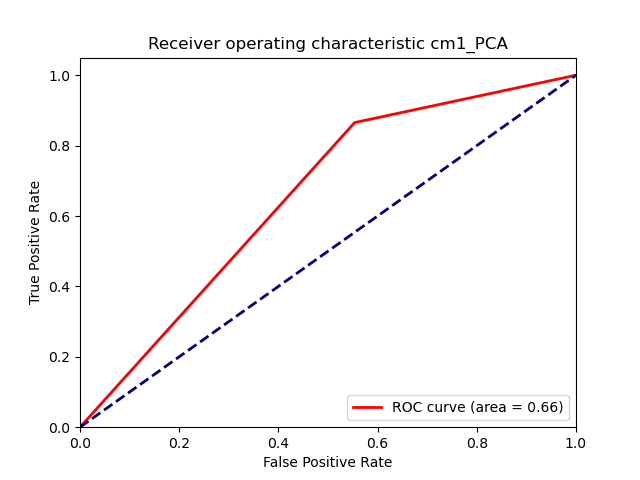
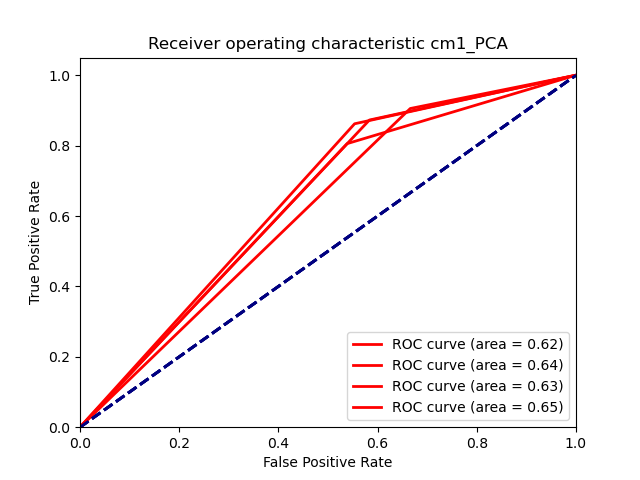
new

diff --git a/models.py b/models.py
@@ -50,9 +50,9 @@ def xgb(X_train,y_train,X_test):
         'max_depth': [3, 4, 5]
         }
     
-    classifier = findbestestimator(param_grid,xgb,X_train,y_train) 
-    #classifier = XGBClassifier(colsample_bytree=1,gamma=0.5, max_depth= 5, min_child_weight= 1, subsample=0.8)
-    #classifier.fit(X_train, y_train)
+    #classifier = findbestestimator(param_grid,xgb,X_train,y_train) 
+    classifier = XGBClassifier(colsample_bytree=0.8,gamma=5, max_depth= 4, min_child_weight= 1, subsample=0.6)
+    classifier.fit(X_train, y_train)
     # Predicting the Test set results
     y_pred = classifier.predict(X_test)
     return y_pred
@@ -69,9 +69,9 @@ def rf(X_train,y_train,X_test):
     'min_samples_split': [8, 10, 12],
     'n_estimators': [100, 200, 300, 400, 500, 800, 1000]
     }
-    classifier = findbestestimator(param_grid,rf,X_train,y_train)
-    #classifier = RandomForestClassifier(bootstrap=True, max_depth=80, max_features=3, min_samples_leaf=3, min_samples_split=8,n_estimators=100)
-    #classifier.fit(X_train, y_train)
+    #classifier = findbestestimator(param_grid,rf,X_train,y_train)
+    classifier = RandomForestClassifier(bootstrap=True, max_depth=80, max_features=3, min_samples_leaf=3, min_samples_split=8,n_estimators=100)
+    classifier.fit(X_train, y_train)
     #To quickly classify
     # Predicting the Test set results
     y_pred = classifier.predict(X_test)
@@ -89,10 +89,10 @@ def nn(X_train,y_train,X_test):
              ]
         }
        ]
-    n = MLPClassifier(random_state=0)
-    classifier = findbestestimator(param_grid,n,X_train,y_train)
-    #classifier = MLPClassifier(hidden_layer_sizes=(15,),activation='relu',solver='adam',random_state = 0)
-    #classifier.fit(X_train, y_train)
+    #n = MLPClassifier(random_state=0)
+    #classifier = findbestestimator(param_grid,n,X_train,y_train)
+    classifier = MLPClassifier(hidden_layer_sizes=(15,),activation='relu',solver='adam',random_state = 0)
+    classifier.fit(X_train, y_train)
     # Predicting the Test set results
     y_pred = classifier.predict(X_test)
     return (y_pred)
@@ -107,11 +107,11 @@ def svm(X_train,y_train,X_test):
     {'C': [1, 10, 100, 1000], 'kernel': ['linear']},
     {'C': [1, 10, 100, 1000], 'gamma': [0.001, 0.0001], 'kernel': ['rbf']},
     ]
-    s=  SVC(random_state=0)
-    classifier = findbestestimator(param_grid,s,X_train,y_train)
-    #classifier = SVC(C=1000,gamma=0.001,kernel='rbf',random_state=0)
+    #s=  SVC(random_state=0)
+    #classifier = findbestestimator(param_grid,s,X_train,y_train)
+    classifier = SVC(C=1000,gamma=0.001,kernel='rbf',random_state=0)
     #classifier = SVC(C=10,kernel='linear')
-    #classifier.fit(X_train, y_train)
+    classifier.fit(X_train, y_train)
     y_pred = classifier.predict(X_test)
     return (y_pred)
 

diff --git a/final.py b/final.py
@@ -5,18 +5,18 @@ from models import xgb,rf,nn,svm,pca,kpca,info_gain
 from metrics import evaluate
 
 def runAllModels(X_train,X_test,y_test,y_train):
-    # y_pred= xgb(X_train,y_train,X_test)
-    # plotter(y_test,y_pred)
-    # cm,fscore,a=evaluate(y_test,y_pred)
-    # y_pred = rf(X_train,y_train,X_test)
-    # plotter(y_test,y_pred)
-    # cm,fscore,a=evaluate(y_test,y_pred)
+    y_pred= xgb(X_train,y_train,X_test)
+    plotter(y_test,y_pred)
+    cm,fscore,a=evaluate(y_test,y_pred)
+    y_pred = rf(X_train,y_train,X_test)
+    plotter(y_test,y_pred)
+    cm,fscore,a=evaluate(y_test,y_pred)
     y_pred = nn(X_train,y_train,X_test)
     plotter(y_test,y_pred)
     cm,fscore,a=evaluate(y_test,y_pred)
-    # y_pred = svm(X_train,y_train,X_test)
-    # plotter(y_test,y_pred)
-    # cm,fscore,a=evaluate(y_test,y_pred)
+    y_pred = svm(X_train,y_train,X_test)
+    plotter(y_test,y_pred)
+    cm,fscore,a=evaluate(y_test,y_pred)
     
 
 
@@ -24,7 +24,7 @@ def main():
     import pandas as pd
     X_train,X_test,y_test,y_train =preprocess(sys.argv[1])    
     #runAllModels(X_train,X_test,y_test,y_train)
-    X_train,X_test= pca(X_train,X_test)
+    #X_train,X_test= pca(X_train,X_test)
     #X_train,X_test= kpca(X_train,X_test)
     #X_train,X_test=info_gain(X_train,X_test,y_train)
     runAllModels(X_train,X_test,y_test,y_train)
